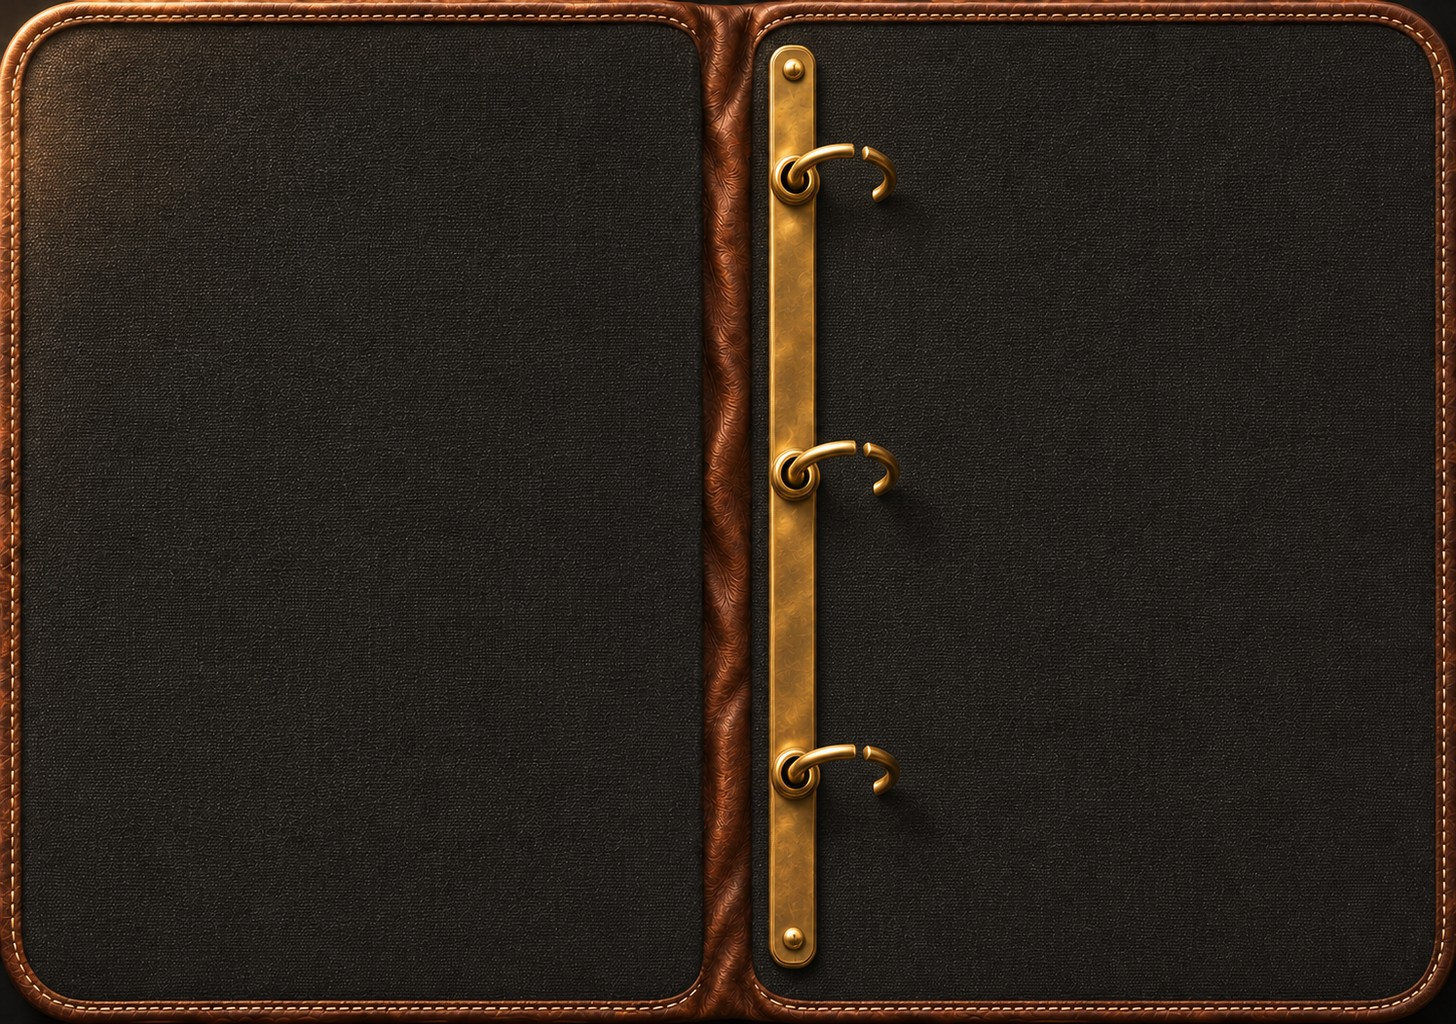
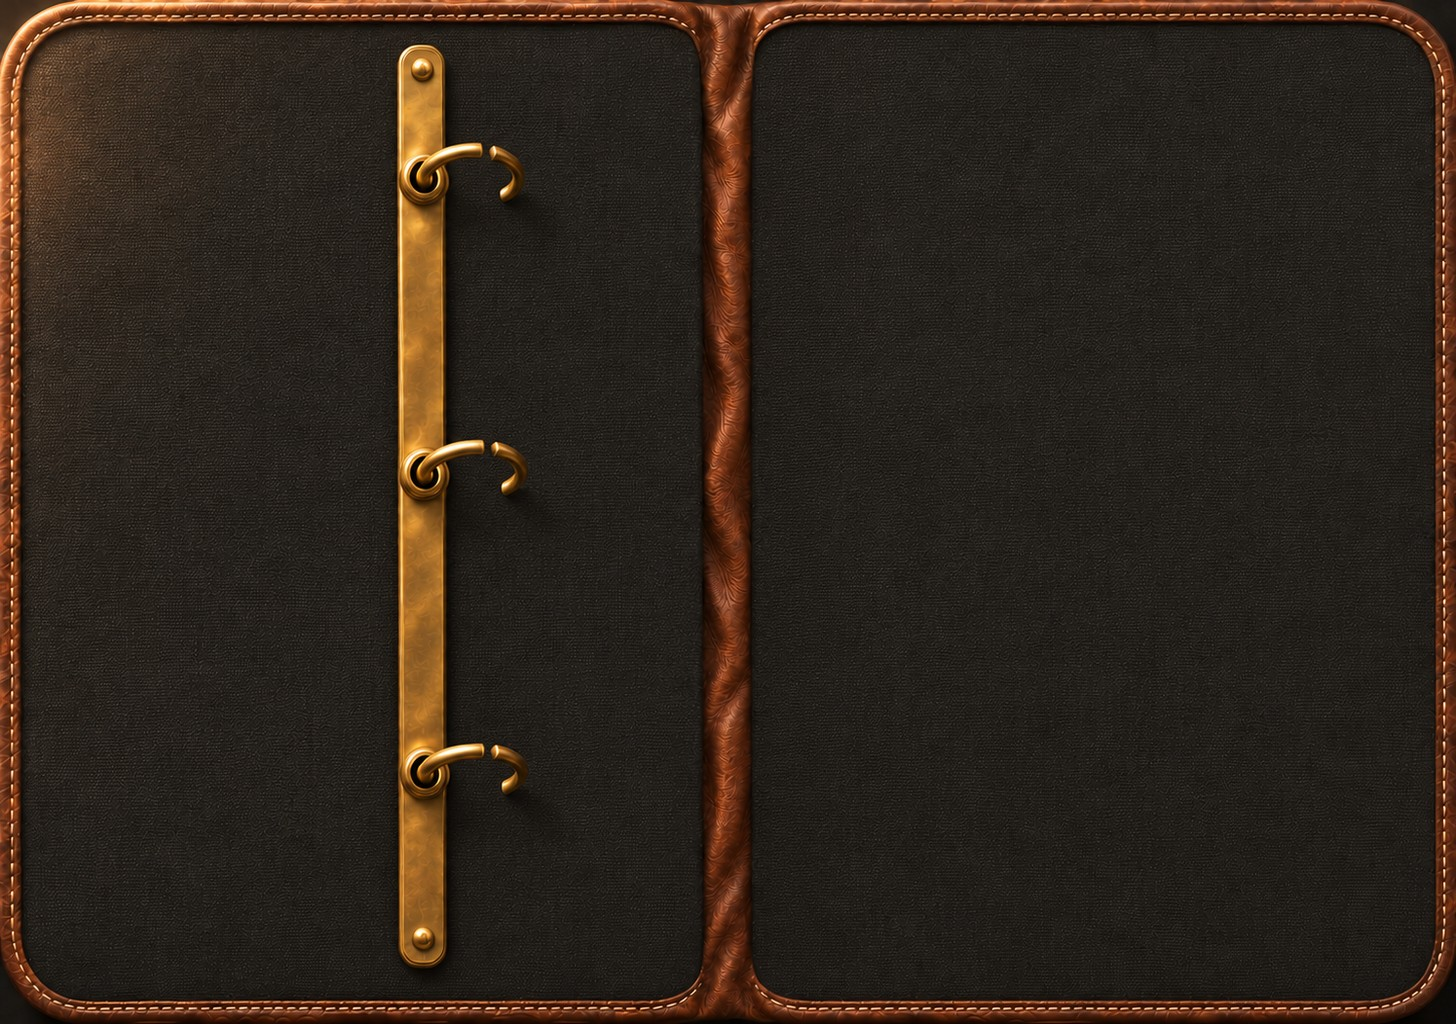
Community C3d: back to the agreed v4 layout. The rail and its rings sit on the left page by the spine; the sleeve threaded on them runs across the spine to the right page's edge, most of the bag, and the themes take the narrow column left of the rail (user 11/24). New GPT spread with the rail on the

diff --git a/cameragr/UI/ClubPage.swift b/cameragr/UI/ClubPage.swift
@@ -14,12 +14,17 @@ enum ClubArt {
     static let rings = UIImage(named: "club_rings") ?? UIImage()
     static let slip = UIImage(named: "kraft_slip") ?? UIImage()
 
-    /// Bag pixels: where the sleeve runs (its punched margin under the rings),
-    /// and the rings' layer.
-    static let sleeveX: CGFloat = 826
-    static let sleeveWidth: CGFloat = 616
+    /// Bag pixels (community_v4, as agreed): the rail and rings on the left
+    /// page near the spine; the sleeve threaded on them runs across the spine
+    /// to the right page's edge, most of the bag (user 11/24).
+    static let sleeveX: CGFloat = 470
+    static let sleeveRight: CGFloat = 1430
+    static var sleeveWidth: CGFloat { sleeveRight - sleeveX }
     static var rowHeight: CGFloat { sleeveWidth * row.size.height / max(row.size.width, 1) }
-    static let ringsRect = CGRect(x: 770, y: 30, width: 180, height: 970)
+    static let ringsRect = CGRect(x: 380, y: 30, width: 190, height: 970)
+    /// The left page's narrow column left of the rail, for the themes.
+    static let navWidth: CGFloat = 330
+    static let navX: CGFloat = 50
     /// The three pockets of a row, as fractions of the row (measured on sleeve_row).
     static let pockets: [CGRect] = [
         CGRect(x: 0.0591, y: 0.0255, width: 0.3105, height: 0.9430),
@@ -189,7 +194,7 @@ struct ClubSleevePage: View {
     @State private var rowSeen = 0
 
     var body: some View {
-        let page = RollLibrary.lidPage
+        let page = RollLibrary.lidPage   // the boards' height; the sleeve spans both pages
         let rowH = ClubArt.rowHeight * s, w = ClubArt.sleeveWidth * s
         let rows = max(Int((CGFloat(club.posts.count) / 3).rounded(.up)), Int(page.height / ClubArt.rowHeight) + 1)
         ZStack(alignment: .topLeading) {
@@ -205,8 +210,8 @@ struct ClubSleevePage: View {
             .onScrollGeometryChange(for: Int.self) { Int(($0.contentOffset.y / rowH).rounded(.down)) } action: { _, row in
                 if row != rowSeen { rowSeen = row; Haptic.detent() }
             }
-            // Only within the page's board: cut at its outer edge, rounded like it.
-            .frame(width: min(w, (page.maxX - ClubArt.sleeveX) * s), height: page.height * s, alignment: .leading)
+            // Within the boards' height, cut at the right page's outer edge, rounded like it.
+            .frame(width: w, height: page.height * s, alignment: .leading)
             .clipShape(UnevenRoundedRectangle(bottomTrailingRadius: RollLibrary.boardRadius * s,
                                               topTrailingRadius: RollLibrary.boardRadius * s))
             .offset(x: ClubArt.sleeveX * s, y: page.minY * s)
@@ -254,9 +259,9 @@ struct ClubSleevePage: View {
                 Image(systemName: post.likedByMe ? "heart.fill" : "heart").foregroundStyle(Color(red: 0.72, green: 0.16, blue: 0.1))
                 Text(verbatim: "\(post.likeCount)")
             }
-            .font(.custom("Marker Felt", size: 11 * s))
+            .font(.custom("Marker Felt", size: 15 * s))
             .foregroundStyle(KitArt.ink)
-            .padding(.horizontal, 6 * s).padding(.vertical, 2 * s)
+            .padding(.horizontal, 8 * s).padding(.vertical, 3 * s)
             .background(Image(uiImage: ClubArt.slip).resizable())
             .padding(.horizontal, 6 * s).padding(.bottom, 5 * s)
         }
@@ -287,14 +292,14 @@ struct ClubThemePage: View {
                 VStack(alignment: .leading, spacing: 8 * s) {
                     kindName(theme.kind).font(.custom("American Typewriter", size: 20 * s)).opacity(0.7)
                     Text(verbatim: Community.Theme.text(theme.title, language: language.code))
-                        .font(.custom("American Typewriter", size: 38 * s).weight(.semibold))
+                        .font(.custom("American Typewriter", size: 32 * s).weight(.semibold))
                     Text(verbatim: Community.Theme.text(theme.prompt, language: language.code))
-                        .font(.custom("American Typewriter", size: 22 * s))
+                        .font(.custom("American Typewriter", size: 19 * s))
                         .fixedSize(horizontal: false, vertical: true)
                 }
                 .foregroundStyle(KitArt.ink)
-                .padding(28 * s)
-                .frame(width: 560 * s, alignment: .leading)
+                .padding(20 * s)
+                .frame(width: ClubArt.navWidth * s, alignment: .leading)
                 .background(Image(uiImage: ClubArt.slip).resizable())
                 .accessibilityElement(children: .combine)
             }
@@ -325,15 +330,15 @@ struct ClubThemePage: View {
                         Image(systemName: "chevron.right").font(.system(size: 16 * s, weight: .semibold)).opacity(0.6)
                     }
                     .foregroundStyle(KitArt.ink)
-                    .padding(.horizontal, 24 * s).padding(.vertical, 14 * s)
-                    .frame(width: 480 * s, alignment: .leading)
+                    .padding(.horizontal, 18 * s).padding(.vertical, 12 * s)
+                    .frame(width: ClubArt.navWidth * s, alignment: .leading)
                     .background(Image(uiImage: ClubArt.slip).resizable())
                     .contentShape(Rectangle())
                 }
                 .buttonStyle(.plain)
             }
         }
-        .offset(x: 84 * s, y: 90 * s)
+        .offset(x: ClubArt.navX * s, y: 80 * s)
     }
 
     private func kindName(_ kind: Community.Theme.Kind) -> Text {

diff --git a/cameragr/UI/RollLibrary.swift b/cameragr/UI/RollLibrary.swift
@@ -231,6 +231,17 @@ struct RollLibrary: View {
                     KitHandbookPage(s: s)
                 }
                 bagCase(s: s).zIndex(1)
+                // The community's sleeve lies across both pages and the spine
+                // (community_v4): over the case. Kept alive throughout, so its
+                // place in the rows survives turns and cancelled drags (GPT
+                // review C3d); seen only while the bag rests on the club.
+                let onClub = spread == .club && turnFrom == .club
+                ClubSleevePage(s: s)
+                    .opacity(onClub ? 1 : 0)
+                    .animation(.easeOut(duration: onClub ? 0.2 : 0.08), value: onClub)
+                    .allowsHitTesting(onClub)
+                    .accessibilityHidden(!onClub)
+                    .zIndex(1.5)
                 spreadPage(.book, left: true, s: s) {
                     halfPicture(BookArt.board, left: true, s: s)
                     ZStack(alignment: .topLeading) {
@@ -249,7 +260,6 @@ struct RollLibrary: View {
                 }
                 spreadPage(.club, left: false, s: s) {
                     halfPicture(ClubArt.spread, left: false, s: s)
-                    ClubSleevePage(s: s)
                 }
                 ForEach(flights) { f in
                     let stop = f.stops[f.at]

diff --git a/project/reviews/club-c3d.md b/project/reviews/club-c3d.md
@@ -1,0 +1,24 @@
+## 必须改
+
+- `cameragr/UI/RollLibrary.swift:236–237`：插页仅在 `spread == turnFrom == .club` 时存在；开始翻页便整张移除，结束才重建，并未实现蓝图要求的“翻页时可分开”。取消拖动也会重建滚动视图，存在回到顶部的风险（待运行确认）。应保留插页状态，将同一插页按左右页裁切并参与翻页，静止时无缝拼合。
+
+## 建议改
+
+- 两张截图的照片底部作者、胶卷、点赞字样过小，明显难于阅读（`ClubPage.swift:262`，字号 `11 * s`）。建议适度增大纸条与字号，在 Duo 实际尺寸下确认。
+
+## 偏离蓝图
+
+- 静态构图已符合 C3d：环钉位于左页，相册跨书脊占大半；中英文截图未见文字截断。
+- 审查包混入任务外内容：`project.pbxproj` 包含此前社区、语言和维护页的注册变更；`.status` 包含大量商店截图及构建目录。可能是历史未提交内容，不能认定本任务新增；提交前应分离，避免夹带。
+
+## 测试建议
+
+- Duo 上录制进入、离开社区，以及边缘拖动后取消：照片应随页运动，无整片消失或突然出现。
+- 滚到中段后翻页再返回、取消翻页，检查位置与主题保留。
+- 中英文检查首末列照片点击、纵向滚动、主题切换、“投一张”和底部导航；补测普通 iPhone、旋转及“减少动态效果”。
+- 本次仅做源码与截图审查，未运行构建、自动测试或真机操作。
+
+## 结论
+
+修改后通过
+
